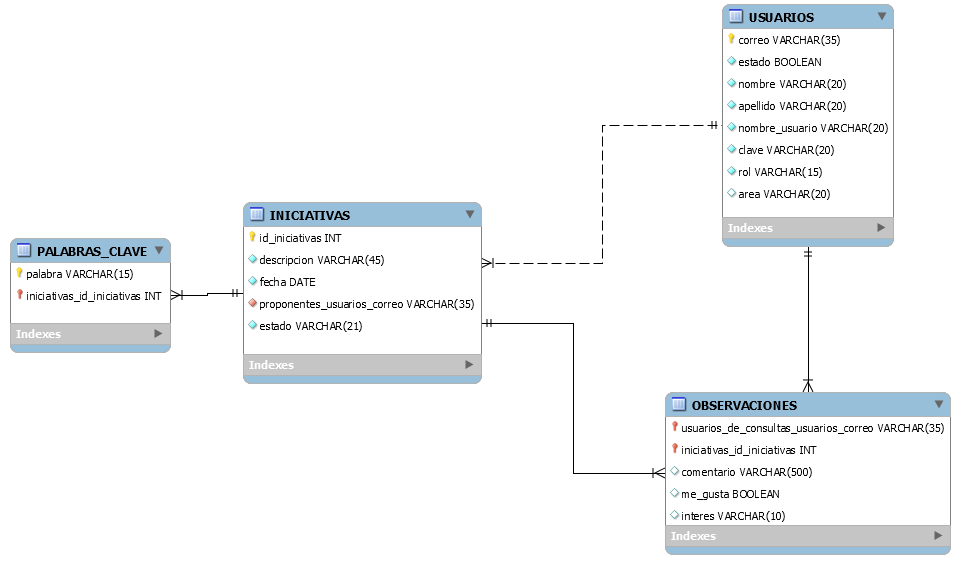
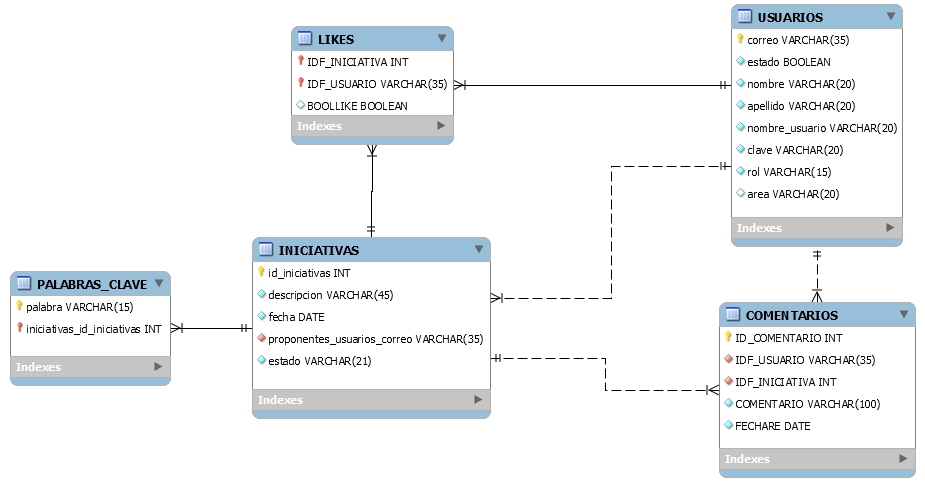
fun9,Vista,prAceptación,Cambios

diff --git a/src/main/java/edu/eci/cvds/samples/manegedbeans/AgregarComentarioBean.java b/src/main/java/edu/eci/cvds/samples/manegedbeans/AgregarComentarioBean.java
@@ -1,0 +1,105 @@
+/*
+ * To change this license header, choose License Headers in Project Properties.
+ * To change this template file, choose Tools | Templates
+ * and open the template in the editor.
+ */
+package edu.eci.cvds.samples.manegedbeans;
+
+import edu.eci.cvds.samples.entities.Iniciativa;
+import edu.eci.cvds.samples.entities.Usuario;
+import edu.eci.cvds.samples.services.ExcepcionServiciosBanco;
+import edu.eci.cvds.samples.services.ServiciosBanco;
+import edu.eci.cvds.samples.services.ServiciosBancoFactory;
+import java.io.Serializable;
+import java.util.List;
+import java.util.logging.Level;
+import java.util.logging.Logger;
+
+import javax.faces.bean.ManagedBean;
+import javax.faces.bean.SessionScoped;
+import org.apache.shiro.SecurityUtils;
+
+import org.apache.shiro.subject.Subject;
+
+@ManagedBean(name = "AgregarComentarioBean")
+@SessionScoped
+
+/**
+ *
+ * @author David Coronado
+ */
+public class AgregarComentarioBean implements Serializable{
+    
+    private  ServiciosBanco serviciosBanco;
+    private String estado;
+    private List<Iniciativa> ini;
+    private Usuario publico;
+    private Subject cor;
+    private Iniciativa  selectedIniciativa;
+    
+    public AgregarComentarioBean(){
+        serviciosBanco=ServiciosBancoFactory.getInstance().getServiciosBanco();
+        cor= SecurityUtils.getSubject();
+        estado=null;
+        try{
+            ini = serviciosBanco.consultarIniciativas();
+            publico=serviciosBanco.consultarUsuario(cor.getSession().getAttribute("Correo").toString());
+            
+            
+        }catch(ExcepcionServiciosBanco ex){
+             Logger.getLogger(AsignacionPerfilesBean.class.getName()).log(Level.SEVERE, null, ex);
+        }
+    }
+    
+    public void AgregarComentario(String comentario){
+        if (selectedIniciativa==null){
+            estado="Seleccione alguna iniciativa";    
+        }
+        else{
+            try{
+                
+                serviciosBanco.agregarComentariosAIniciativa(selectedIniciativa.getId(),publico.getCorreo(),comentario);
+                estado="Su comentario se agrego exitosamente";
+                selectedIniciativa=null;
+            }catch(ExcepcionServiciosBanco ex){
+                estado="Error al agregar un comentario";
+                Logger.getLogger(AsignacionPerfilesBean.class.getName()).log(Level.SEVERE, null, ex);
+            }
+        }
+    }
+    
+
+    public String getEstado() {
+        return estado;
+    }
+
+    public void setEstado(String estado) {
+        this.estado = estado;
+    }
+
+    public List<Iniciativa> getIni() {
+        return ini;
+    }
+
+    public void setIni(List<Iniciativa> ini) {
+        this.ini = ini;
+    }
+
+    public Usuario getPublico() {
+        return publico;
+    }
+
+    public void setPublico(Usuario publico) {
+        this.publico = publico;
+    }
+
+    public Iniciativa getSelectedIniciativa() {
+        return selectedIniciativa;
+    }
+
+    public void setSelectedIniciativa(Iniciativa selectedIniciativa) {
+        this.selectedIniciativa = selectedIniciativa;
+    }
+    
+    
+}

diff --git a/src/main/java/edu/eci/cvds/samples/manegedbeans/IniciativaBean.java b/src/main/java/edu/eci/cvds/samples/manegedbeans/IniciativaBean.java
@@ -15,7 +15,6 @@ import org.apache.shiro.subject.Subject;
 
 import javax.faces.bean.ManagedBean;
 import javax.faces.bean.SessionScoped;
-import javax.faces.context.ExternalContext;
 import java.io.Serializable;
 import java.text.ParseException;
 import java.util.ArrayList;
@@ -68,13 +67,13 @@ public class IniciativaBean implements Serializable {
     public void registrarIniciativa(String descripcion) throws ParseException {
 
         try {
-            List palabrasclaveArr = new ArrayList<String>(Arrays.asList(palabrasClave.split(",")));
+            List palabrasclaveArr = new ArrayList<>(Arrays.asList(palabrasClave.split(",")));
             Date utilDate = new Date();
             nuevoRegistro = new Iniciativa(id, descripcion, new java.sql.Date(utilDate.getTime()),estado,proponente,palabrasclaveArr);
             serviciosBanco.registrarIniciativa(nuevoRegistro);
             iniciativas = serviciosBanco.consultarIniciativas();
             screenEstado = "registro exitoso";
-        } catch (Exception e) {
+        } catch (ExcepcionServiciosBanco e) {
             e.printStackTrace();
 
         }
@@ -85,7 +84,7 @@ public class IniciativaBean implements Serializable {
             serviciosBanco.UpdateEstado(Integer.parseInt(id) ,estado);
             screenEstado="actualizado";
             iniciativas = serviciosBanco.consultarIniciativas();
-        }catch (Exception ex){
+        }catch (ExcepcionServiciosBanco | NumberFormatException ex){
             screenEstado="Error en actualziar";
 
         }

diff --git a/src/main/java/edu/eci/cvds/samples/manegedbeans/NavigationController.java b/src/main/java/edu/eci/cvds/samples/manegedbeans/NavigationController.java
@@ -30,6 +30,10 @@ public class NavigationController implements Serializable {
     }
     public String publico(){
         return "Publico";
+        
+    }
+    public String AgregarComentario(){
+        return "AgregarComentarios";
     }
     public String getPageAdmin(){return "Perfiladmin";}
     public String getPageProp(){return "Perfilproponente";}
